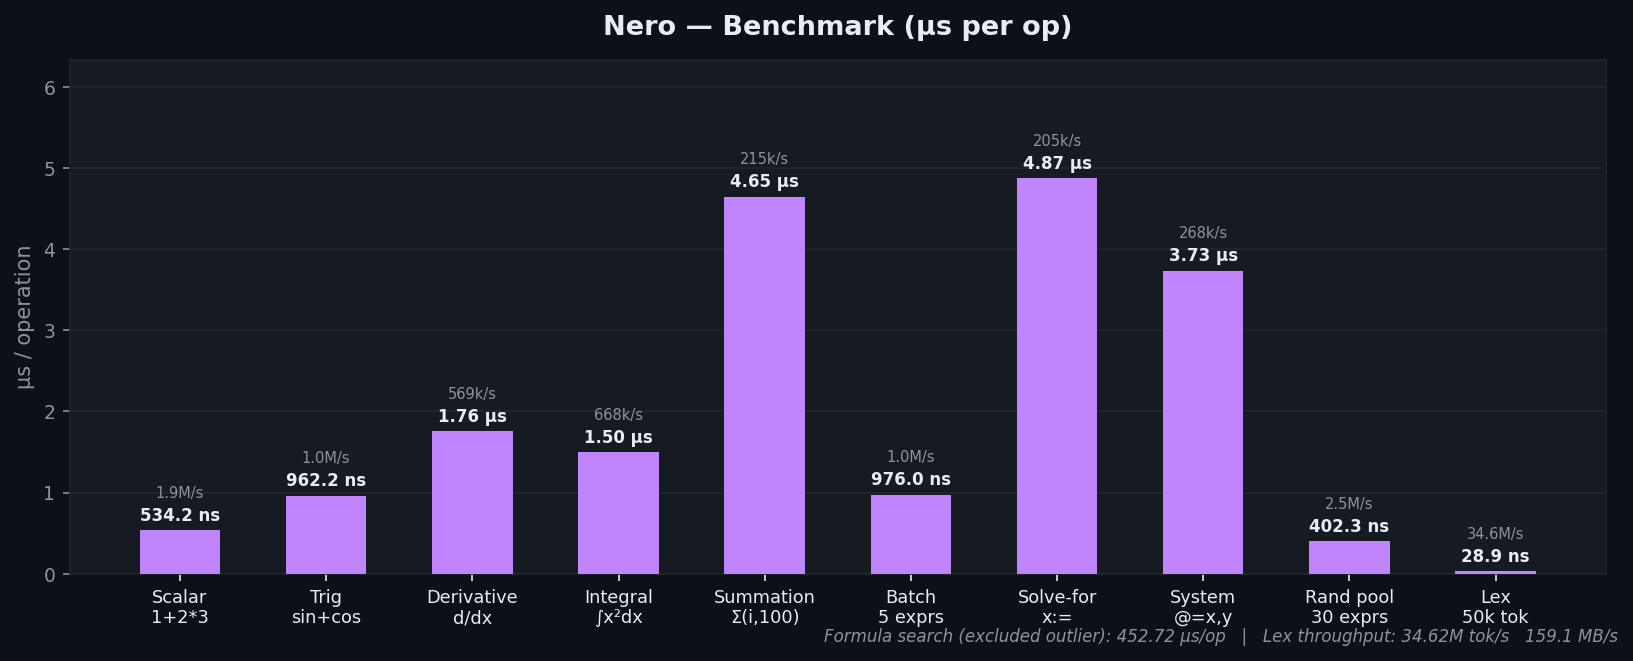
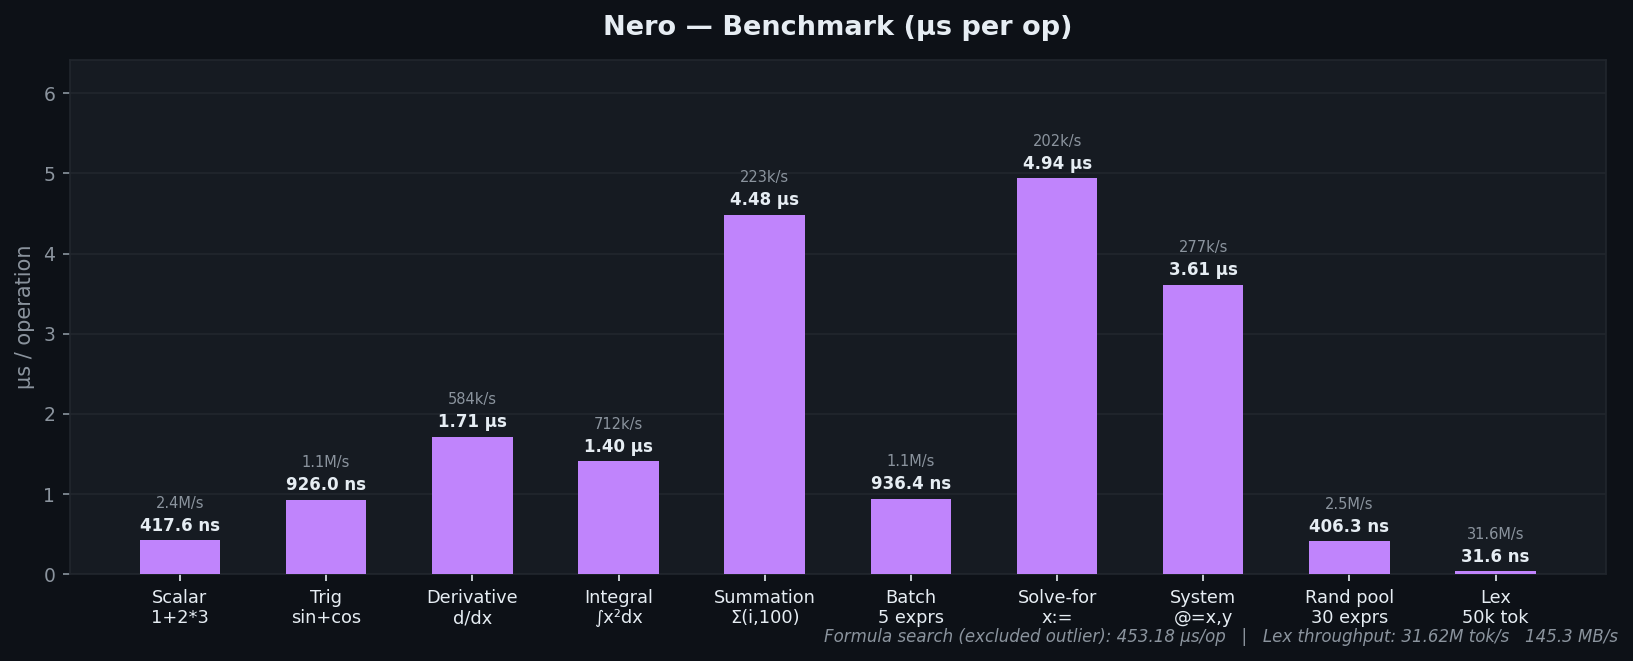
fix: gen readme

diff --git a/scripts/gen_readme_tables.ts b/scripts/gen_readme_tables.ts
@@ -99,13 +99,22 @@ function buildConstantsTable(constants: Constant[]): string {
 // Parse builtin function names from lexer.cpp
 // ============================================================================
 function parseBuiltinNames(lexerSrc: string): string[] {
-    const names: string[] = [];
-    const re = /case strint<"([^"]+)">[\s\S]*?BUILTIN_FUNC_/g;
+    const names = new Set<string>();
+    // Match each individual `case strint<"...">` arm and capture its body up to
+    // the next `case`, `default:`, or end of input. This prevents the regex
+    // from spanning across multiple case arms.
+    const caseRe = /case\s+strint<"([^"]+)">([\s\S]*?)(?=case\s+strint<"[^"]+">|default:|$)/g;
     let m: RegExpExecArray | null;
-    while ((m = re.exec(lexerSrc)) !== null) {
-        names.push(m[1]);
+    while ((m = caseRe.exec(lexerSrc)) !== null) {
+        const name = m[1];
+        const body = m[2];
+        // Only treat this name as a builtin if its own case arm maps to a
+        // BUILTIN_FUNC_* token.
+        if (/BUILTIN_FUNC_/.test(body)) {
+            names.add(name);
+        }
     }
-    return [...new Set(names)];
+    return Array.from(names);
 }
 
 // Categorization of builtin functions

diff --git a/README.md b/README.md
@@ -243,17 +243,17 @@ Supported:
 
 | Benchmark      | µs / op    | ops / sec    | op unit |
 | -------------- | ---------- | ------------ | ------- |
-| Scalar         | 0.53 µs    | 1.87 M/s     | op      |
-| Trig           | 0.96 µs    | 1.04 M/s     | op      |
-| Derivative     | 1.76 µs    | 569.5 k/s    | op      |
-| Integral       | 1.50 µs    | 667.6 k/s    | op      |
-| Summation      | 4.65 µs    | 215.1 k/s    | op      |
-| Batch          | 0.98 µs    | 1.02 M/s     | expr    |
-| Formula search | 452.72 µs  | 2.2 k/s      | op      |
-| Solve-for      | 4.87 µs    | 205.2 k/s    | op      |
-| System solver  | 3.73 µs    | 267.7 k/s    | op      |
-| Random pool    | 0.40 µs    | 2.49 M/s     | expr    |
-| Lex            | 0.03 µs    | 34.62 M/s    | token   |
+| Scalar         | 0.42 µs    | 2.39 M/s     | op      |
+| Trig           | 0.93 µs    | 1.08 M/s     | op      |
+| Derivative     | 1.71 µs    | 584.5 k/s    | op      |
+| Integral       | 1.40 µs    | 712.3 k/s    | op      |
+| Summation      | 4.48 µs    | 223.0 k/s    | op      |
+| Batch          | 0.94 µs    | 1.07 M/s     | expr    |
+| Formula search | 453.18 µs  | 2.2 k/s      | op      |
+| Solve-for      | 4.94 µs    | 202.4 k/s    | op      |
+| System solver  | 3.61 µs    | 277.0 k/s    | op      |
+| Random pool    | 0.41 µs    | 2.46 M/s     | expr    |
+| Lex            | 0.03 µs    | 31.62 M/s    | token   |
 
 <details>
 <summary>Raw numbers</summary>
@@ -261,20 +261,20 @@ Supported:
 ```
 === Nero Benchmarks ===
 
-Scalar: 1 + 2 * 3                                           53.42 ms       1872126/s
-Trig: sin(pi/6) + cos(pi/3)                                 48.11 ms       1039199/s
-Derivative: d/dx(x^3) at x=2                                17.56 ms        569449/s
-Integral: int_0^1 x^2 dx                                     7.49 ms        667431/s
-Summation: sum_{i=1}^{100}(i)                               23.24 ms        215125/s
-Batch (5 unit-carrying exprs)                               48.80 ms        204934/s
-Formula search (acceleration target)                       452.72 ms          2209/s
-Solve-for: x^2 - 4 ; x :=                                   14.62 ms        205231/s
-System solver: x+y=5, x-y=1 ; @=x,y                          7.47 ms        267636/s
-Random pool (30 exprs, 1000 rounds)                         12.07 ms         82833/s
+Scalar: 1 + 2 * 3                                           41.76 ms       2394517/s
+Trig: sin(pi/6) + cos(pi/3)                                 46.30 ms       1079839/s
+Derivative: d/dx(x^3) at x=2                                17.11 ms        584482/s
+Integral: int_0^1 x^2 dx                                     7.02 ms        712162/s
+Summation: sum_{i=1}^{100}(i)                               22.42 ms        223053/s
+Batch (5 unit-carrying exprs)                               46.82 ms        213597/s
+Formula search (acceleration target)                       453.18 ms          2207/s
+Solve-for: x^2 - 4 ; x :=                                   14.82 ms        202476/s
+System solver: x+y=5, x-y=1 ; @=x,y                          7.22 ms        277181/s
+Random pool (30 exprs, 1000 rounds)                         12.19 ms         82023/s
 
 --- Lex Throughput ---
-Lex: 50k-token string (all token types)                    722.13 ms           692/s
-  Tokens/sec: 34.62M   Throughput: 159.1 MB/s
+Lex: 50k-token string (all token types)                    790.66 ms           632/s
+  Tokens/sec: 31.62M   Throughput: 145.3 MB/s
 ```
 
 </details>
